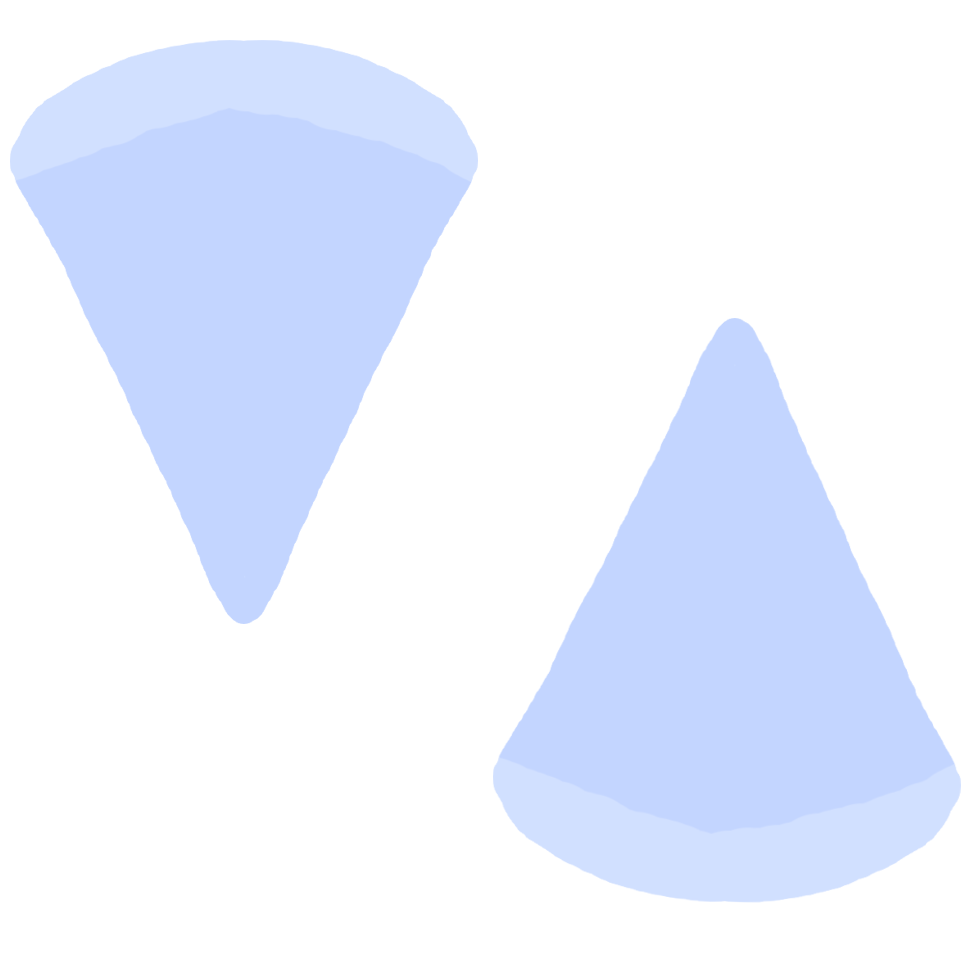
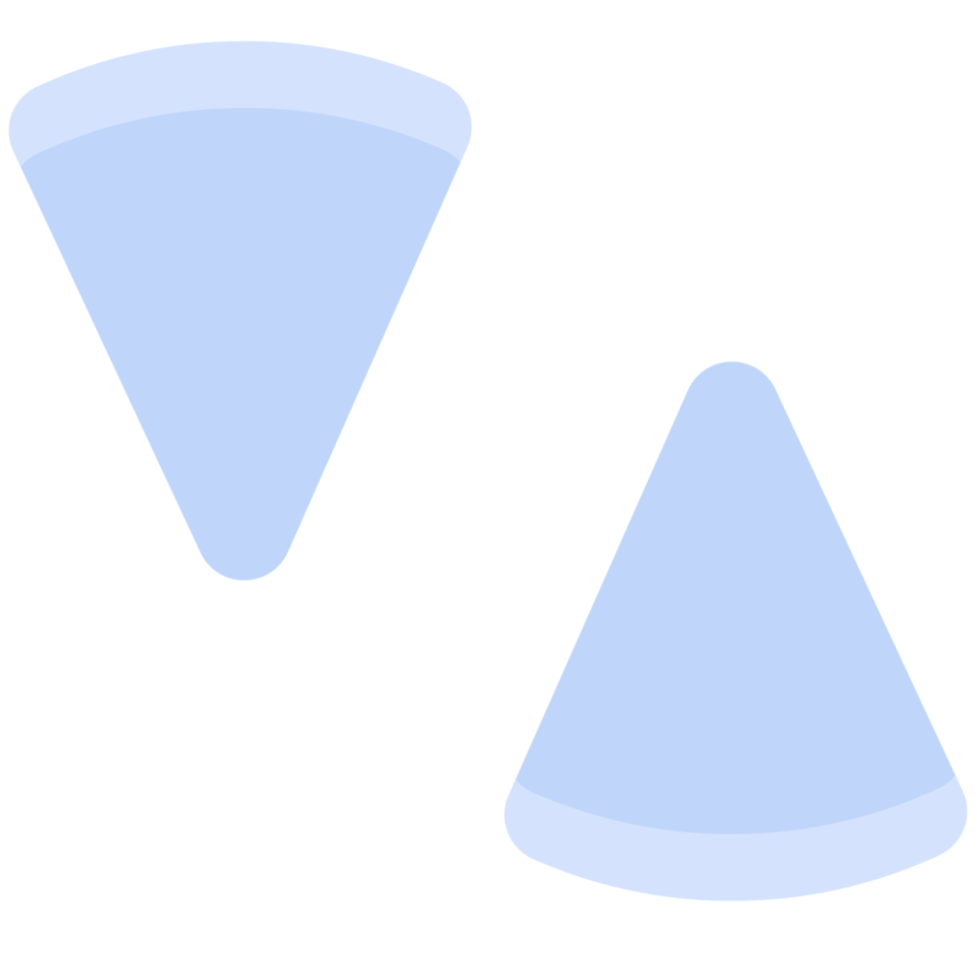
add font picker and update to new brand assets

diff --git a/fontbook/fontbook.js b/fontbook/fontbook.js
@@ -1,0 +1,135 @@
+const weights = [0, 100, 200, 300, 400, 500, 600, 700, 800, 900];
+
+class Font {
+    constructor(name) {
+        this.name = name;
+    }
+
+    sample(text, weight, caps) {
+        const parent = document.createElement('div');
+        parent.classList.add('font-container');
+
+        let casetext = this.name;
+        console.log(caps);
+        if (caps === "lower") casetext = casetext.toLowerCase();
+        if (caps === "upper") casetext = casetext.toUpperCase();
+
+        const el = document.createElement('h3');
+        el.appendChild(document.createTextNode(casetext));
+        el.style.fontFamily = `"${this.name}", "Courier New"`;
+        el.style.fontWeight = weight;
+
+        if (text) {
+            const alt = document.createElement('span');
+            alt.classList.add('fontname-alt');
+            alt.appendChild(document.createTextNode(' ' + text));
+            el.appendChild(alt);
+        }
+
+        parent.appendChild(el);
+
+        return parent;
+    }
+
+    static compare(a,b) {
+        return a.name.localeCompare(b.name);
+    }
+}
+
+class GoogleFont extends Font {
+    constructor(name) {
+        super(name);
+        for (const weight of weights) {
+            const link = this.link = document.createElement('link');
+            link.rel = 'stylesheet';
+            link.href = `https://fonts.googleapis.com/css2?family=${name.replaceAll(' ', '+')}:wght@${weight}&subset=latin`;
+            document.head.appendChild(link);
+        }
+    }
+}
+
+class FontBook {
+    constructor() {
+        this.groups = {};
+    }
+
+    add(group, font) {
+        this.groups[group] = (this.groups[group] || [])
+        this.groups[group].push(font);
+    }
+
+    render(parent, sampletext, sampleweight, samplecase) {
+        parent.textContent = '';
+        const el = document.createElement('div');
+        for (const [groupname, group] of Object.entries(this.groups)) {
+            const header = document.createElement('h2');
+            header.appendChild(document.createTextNode(groupname));
+            el.appendChild(header);
+            const group_parent = document.createElement('div');
+            group_parent.classList.add('group');
+            for (const font of group.sort(Font.compare)) {
+                const sample = font.sample(sampletext, sampleweight, samplecase);
+                group_parent.appendChild(sample);
+            }
+            el.appendChild(group_parent);
+        }
+        parent.appendChild(el);
+    }
+}
+
+const fontbook = new FontBook();
+fontbook.add('Professional', new Font('Arial'));
+fontbook.add('Professional', new GoogleFont('Source Sans 3'));
+fontbook.add('Professional', new GoogleFont('Noto Sans'));
+fontbook.add('Professional', new GoogleFont('Roboto'));
+fontbook.add('Professional', new GoogleFont('Roboto Condensed'));
+fontbook.add('Professional', new GoogleFont('Oxygen'));
+fontbook.add('Professional', new GoogleFont('Encode Sans'));
+fontbook.add('Professional', new GoogleFont('Encode Sans Condensed'));
+
+fontbook.add('Fun', new GoogleFont('Rubik'));
+fontbook.add('Fun', new GoogleFont('Passion One'));
+fontbook.add('Fun', new GoogleFont('Titan One'));
+fontbook.add('Fun', new GoogleFont('Wendy One'));
+fontbook.add('Fun', new GoogleFont('Lilita One'));
+
+fontbook.add('Stylized', new GoogleFont('Bangers'));
+fontbook.add('Stylized', new GoogleFont('Racing Sans One'));
+fontbook.add('Stylized', new GoogleFont('Tulpen One'));
+fontbook.add('Stylized', new GoogleFont('Denk One'));
+fontbook.add('Stylized', new GoogleFont('Contrail One'));
+fontbook.add('Stylized', new GoogleFont('Bowlby One'));
+fontbook.add('Stylized', new GoogleFont('Fugaz One'));
+fontbook.add('Stylized', new GoogleFont('Anton'));
+fontbook.add('Stylized', new GoogleFont('Raleway'));
+
+fontbook.add('Code', new GoogleFont('Source Code Pro'));
+fontbook.add('Code', new GoogleFont('Inconsolata'));
+fontbook.add('Code', new GoogleFont('Space Mono'));
+fontbook.add('Code', new GoogleFont('Ubuntu Mono'));
+fontbook.add('Code', new GoogleFont('Anonymous Pro'));
+
+fontbook.add('Mixed', new GoogleFont('Oswald'));
+fontbook.add('Mixed', new GoogleFont('Anybody'));
+fontbook.add('Mixed', new GoogleFont('Dosis'));
+fontbook.add('Mixed', new GoogleFont('Teko'));
+fontbook.add('Mixed', new GoogleFont('Fjalla One'));
+
+
+window.addEventListener('load', ()=>{
+    console.log('ready');
+
+    const sampletext = document.getElementById('sampletext');
+    const sampleweight = document.getElementById('sampleweight');
+    const samplecase = document.getElementById('samplecase');
+
+    sampletext.addEventListener('input', update);
+    sampleweight.addEventListener('input', update);
+    samplecase.addEventListener('input', update);
+
+    function update() {
+        fontbook.render(document.getElementById('render'), sampletext.value, sampleweight.value, samplecase.value);
+    }
+
+    update();
+})

diff --git a/fontbook/index.html b/fontbook/index.html
@@ -1,0 +1,50 @@
+<!DOCTYPE html>
+<html>
+    <head>
+        <!-- Mobile -->
+        <meta name="viewport" content="width=device-width, initial-scale=1">
+
+        <!-- CSS -->
+        <link rel="stylesheet" href="main.css">
+
+        <link rel="preconnect" href="https://fonts.googleapis.com">
+        <link rel="preconnect" href="https://fonts.gstatic.com" crossorigin>
+
+        <!-- HTML Meta Tags -->
+        <title>Font Book - PizzaBlu</title>
+        <link rel="icon" type="image/x-icon" href="/assets/favicon.png">
+
+        <script src="fontbook.js"></script>
+    </head>
+    <body>
+        <div class="container">
+            <div class="content">
+                <h1>Font Book</h1>
+                <label for="sampletext">Preview</label>
+                <input type="text" id="sampletext" Value="Hello Font">
+
+                <label for="sampletext">Weight</label>
+                <select name="sampleweight" id="sampleweight">
+                    <option value="100">Thin</option>
+                    <option value="200">Extra Light</option>
+                    <option value="300">Light</option>
+                    <option value="400">Normal</option>
+                    <option value="500">Medium</option>
+                    <option value="600">Semi Bold</option>
+                    <option value="700">Bold</option>
+                    <option value="800">Extra Bold</option>
+                    <option value="900" selected="selected">Black</option>
+                </select>
+
+                <label for="samplecase">Case</label>
+                <select name="samplecase" id="samplecase">
+                    <option value="lower">Lower</option>
+                    <option value="upper">Upper</option>
+                    <option value="none" selected="selected">Default</option>
+                </select>
+                <hr>
+                <div id="render"></div>
+            </div>
+        </div>
+    </body>
+</html>

diff --git a/index.html b/index.html
@@ -69,8 +69,8 @@
             <div class="indent embeds" id="short-form">
                 <iframe class="portrait" src="https://www.youtube.com/embed/tKAkBLzXQ3M" frameborder="0" allow="accelerometer; clipboard-write; encrypted-media; gyroscope; picture-in-picture; web-share" referrerpolicy="strict-origin-when-cross-origin" allowfullscreen></iframe>
                 <iframe class="portrait" src="https://www.youtube.com/embed/jj3YhQwSEqc" frameborder="0" allow="accelerometer; clipboard-write; encrypted-media; gyroscope; picture-in-picture; web-share" referrerpolicy="strict-origin-when-cross-origin" allowfullscreen></iframe>
-                <iframe class="portrait" src="https://www.youtube.com/embed/VeiwahZxCsg" frameborder="0" allow="accelerometer; clipboard-write; encrypted-media; gyroscope; picture-in-picture; web-share" referrerpolicy="strict-origin-when-cross-origin" allowfullscreen></iframe>
                 <iframe class="portrait" src="https://www.youtube.com/embed/4rMOGYZp53o" frameborder="0" allow="accelerometer; clipboard-write; encrypted-media; gyroscope; picture-in-picture; web-share" referrerpolicy="strict-origin-when-cross-origin" allowfullscreen></iframe>
+                <iframe class="portrait" src="https://www.youtube.com/embed/-c38DcS157Y" frameborder="0" allow="accelerometer; clipboard-write; encrypted-media; gyroscope; picture-in-picture; web-share" referrerpolicy="strict-origin-when-cross-origin" allowfullscreen></iframe>
             </div>
 
             <div class="title">

diff --git a/fontbook/main.css b/fontbook/main.css
@@ -1,0 +1,65 @@
+body {
+    background-color: rgb(20,22,22);
+    color: rgb(200,200,200);
+    font-family: Arial, Helvetica, sans-serif;
+    margin: 0;
+    padding: 0;
+}
+
+.container {
+    width: 100%;
+    display: flex;
+    justify-content: center;
+}
+.content {
+    width: 768px;
+    padding: 0px 12px;
+}
+.group {
+    margin-left: 32px;
+    margin-bottom: 32px;
+}
+
+.font-container {
+    margin-bottom: 12px;
+}
+
+.sample-text {
+    font-size: 24pt;
+    background-color: rgba(0,0,0,0.12);
+    width: 100%;
+    border-radius: 8px;
+    padding: 2px 12px;
+}
+
+.fontname-alt {
+    color: rgb(100,100,100);
+    font-size: 60%;
+}
+
+h1 {
+    font-weight: 800;
+    font-size: 48pt;
+    margin: 0;
+}
+
+h2 {
+    font-weight: 800;
+    font-size: 18pt;
+    margin: 0;
+}
+
+h3 {
+    font-weight: 900;
+    font-size: 32pt;
+    margin: 0;
+}
+
+hr {
+    display: block;
+    height: 1px;
+    border: 0;
+    border-top: 1px solid rgb(128,128,128);
+    padding: 0;
+    margin-bottom: 32px;
+}
